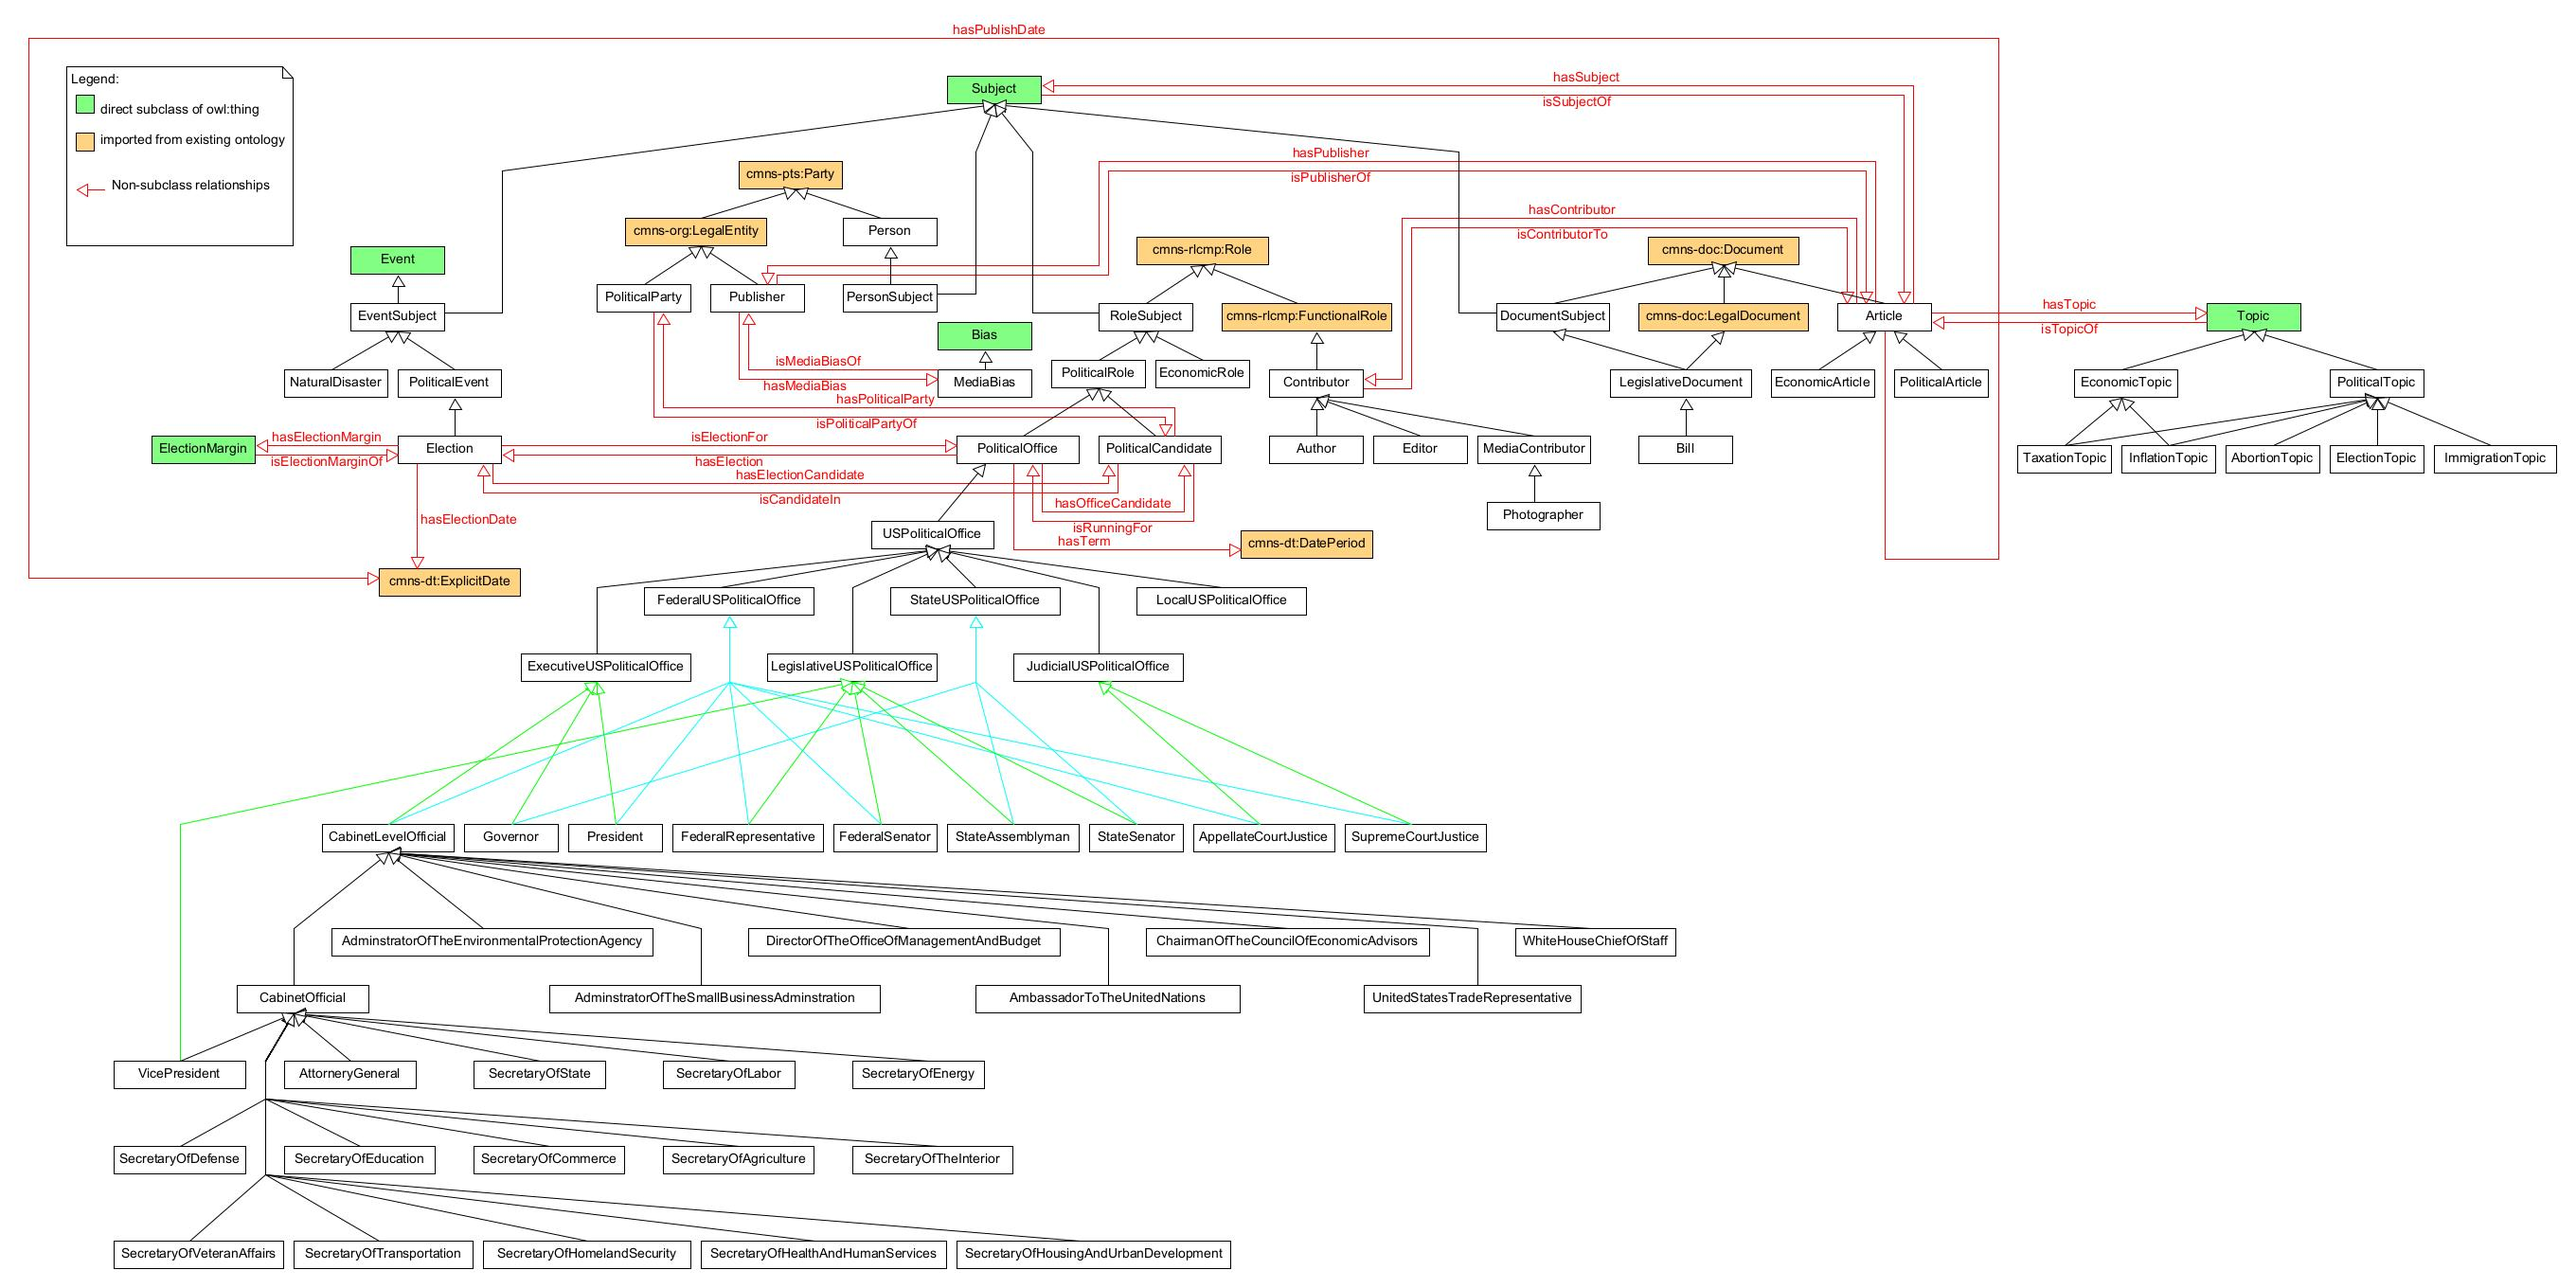
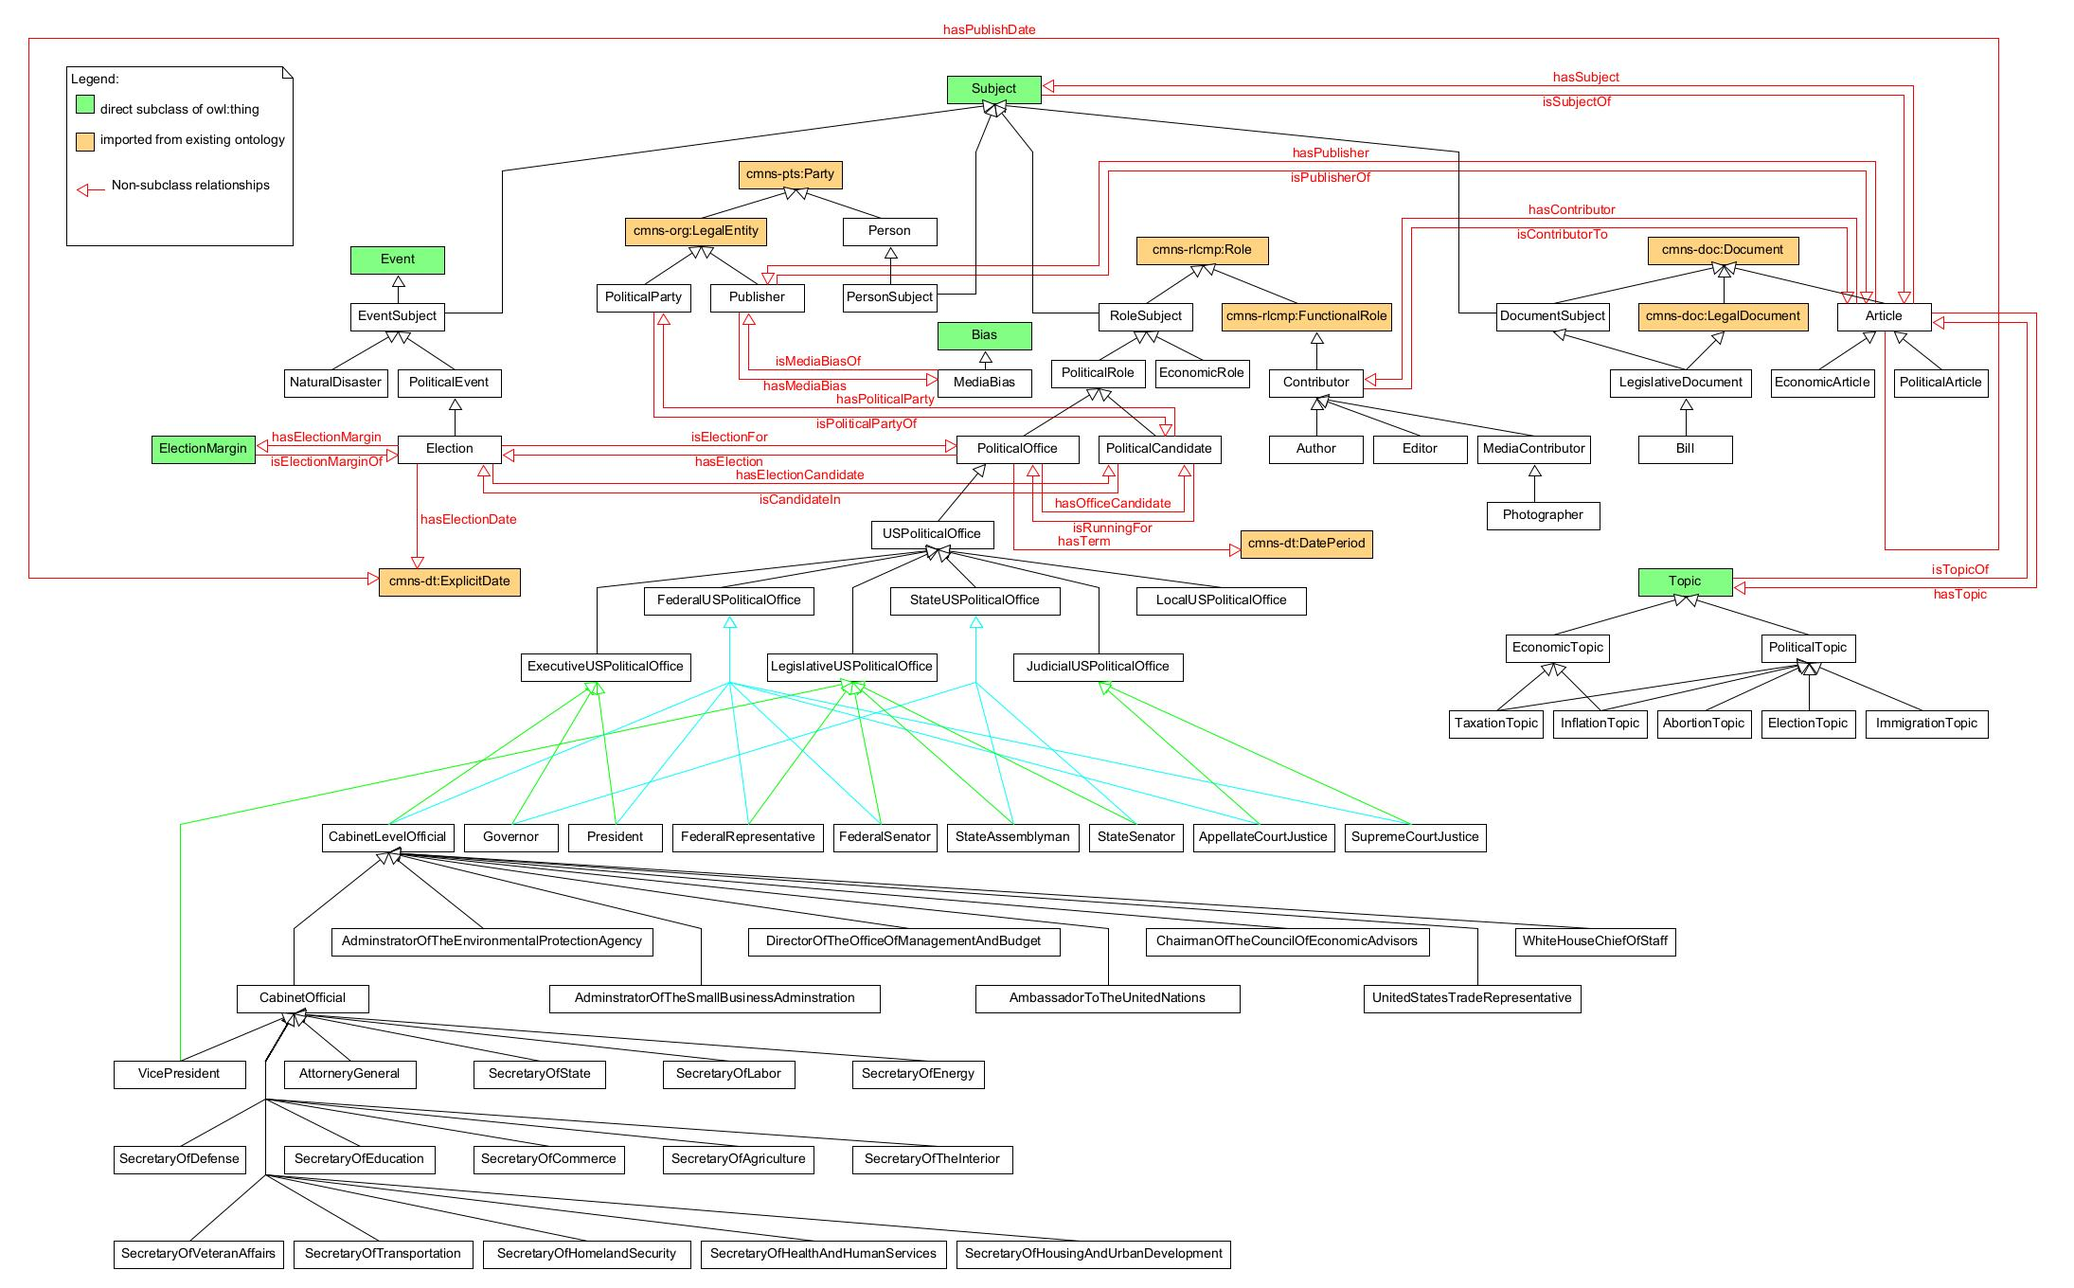
added annotated concept maps to web page modified CMDv3 for better display

diff --git a/oe2024/political-journalism/ontology.md b/oe2024/political-journalism/ontology.md
@@ -2,20 +2,29 @@
 
 ## Conceptual Model
 
-![Concept Map Subject Model](images/ConceptModel_Journalism.png)
+### Overview
+[![](images/JournalismCMDv3.jpg)](images/JournalismCMDv3.jpg)
+A complete representation of classes present in the Political Journalism Ontology. All property associations in black represent rdf:subClassOf associations. All associations in red represent associations implemented in the Political Journalism Ontology.
 
-An overview of the main classes and their property associations. Some property associations exist only upon
-representation of the Table 1 data, and so we highlight instances in pink
+
+<iframe src="https://docs.google.com/presentation/d/e/2PACX-1vRRkIQlOvQEpMIOWADi_GV-PWNQp7BY4gDSy9FrtyPJS9cR_LIwPnUnMlzG5-eb7z2i-OGLxUSC1JCU/embed?start=false&loop=false&delayms=3000" frameborder="0" width="960" height="569" allowfullscreen="true" mozallowfullscreen="true" webkitallowfullscreen="true"></iframe>
+
+Figure 1 shows the relations between the high level classes.
+
+Figure 2 demonstrates how the elections are sematically represented in the ontology.
+
+Figure 3 goes into further detail about the representation of Political Offices.
+
+Figure 4 covers the higher level relations between the various subclasses of cmns-rlcmp:Role
+
+Figure 5 covers the structure of Topics.
 
 ## Ontologies
 
-### Study Cohort Ontology (SCO)
+### Political Journalism Ontology
 
 **Link:**
-[https://raw.githubusercontent.com/tetherless-world/study-cohort-ontology/master/Ontologies/studycohort.owl](https://raw.githubusercontent.com/tetherless-world/study-cohort-ontology/master/Ontologies/studycohort.owl)
-
-**View the ontology documentation at:**
-[https://tetherless-world.github.io/study-cohort-ontology/WidocoDocumentation/doc/index-en.html](https://tetherless-world.github.io/study-cohort-ontology/WidocoDocumentation/doc/index-en.html)
+[https://raw.githubusercontent.com/tetherless-world/ontology-engineering/refs/heads/journalism/oe2024/political-journalism/PoliticalJournalism.rdf](https://raw.githubusercontent.com/tetherless-world/ontology-engineering/refs/heads/journalism/oe2024/political-journalism/PoliticalJournalism.rdf)
 
 #### Primary Classes and Definitions
 
